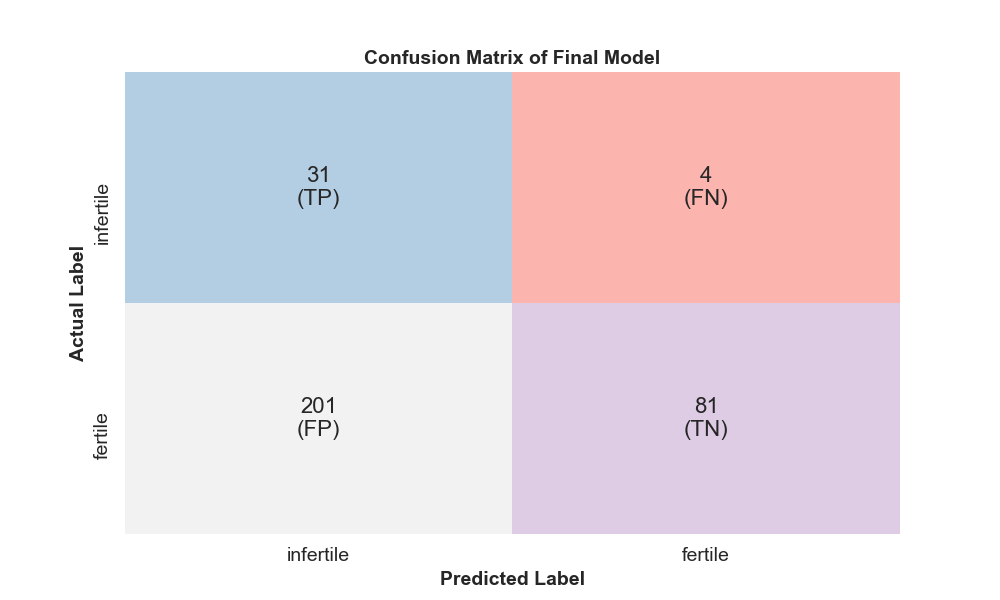
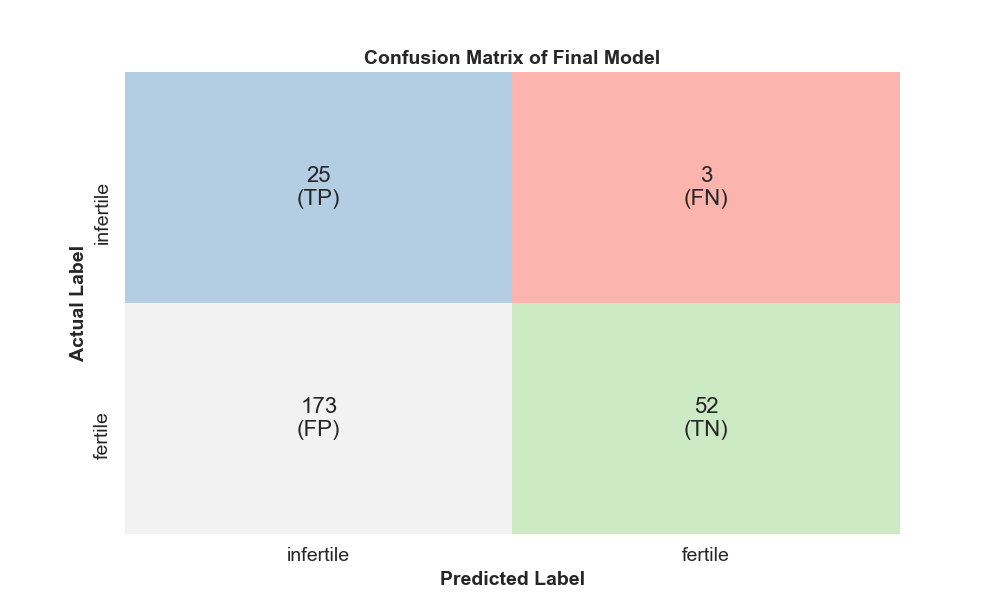
fixing figs

diff --git a/src/final_mod.py b/src/final_mod.py
@@ -87,7 +87,7 @@ def generate_confusion_matrix(y_test, y_pred, labels, title, filename, show=Fals
     label = (np.asarray(["{1}\n({0})".format(string, value)
                       for string, value in zip(strings.flatten(),
                                                cm.flatten())])).reshape(2, 2)
-    ax = sns.heatmap(df_cm, annot=label,fmt="", cmap='bwr', annot_kws={'size':16},cbar = False)
+    ax = sns.heatmap(df_cm, annot=label,fmt="", cmap='Pastel1', annot_kws={'size':16},cbar = False)
     plt.ylabel("Actual Label", fontsize=14, fontweight='bold')
     plt.xlabel("Predicted Label", fontsize=14, fontweight='bold')
     plt.title(title, fontsize=14, fontweight='bold')

diff --git a/README.md b/README.md
@@ -99,7 +99,7 @@ Because age is significant, we can look at the exp(0.0595) = 1.06
 **The recall from my final hold out was 0.886**
 
 <p align="center">
-<img src="images/confusion_mat.png" width=500px><img src="images/confusion_mat_holdout.png" width=500px>
+<img src="images/confusion_mat.png" width=450px><img src="images/confusion_mat_holdout.png" width=450px>
 </p>
 
 
